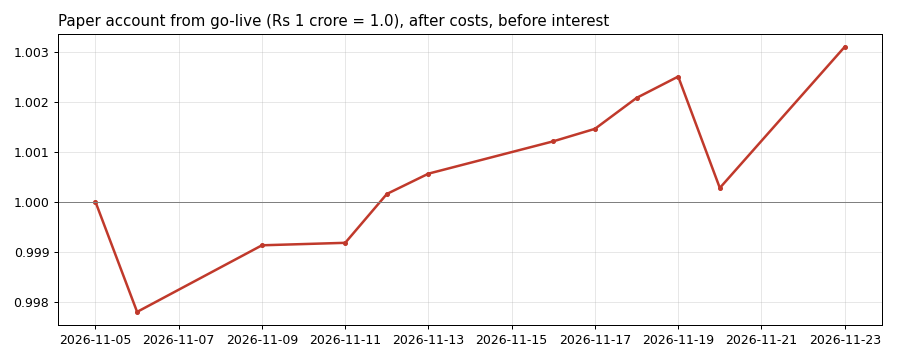
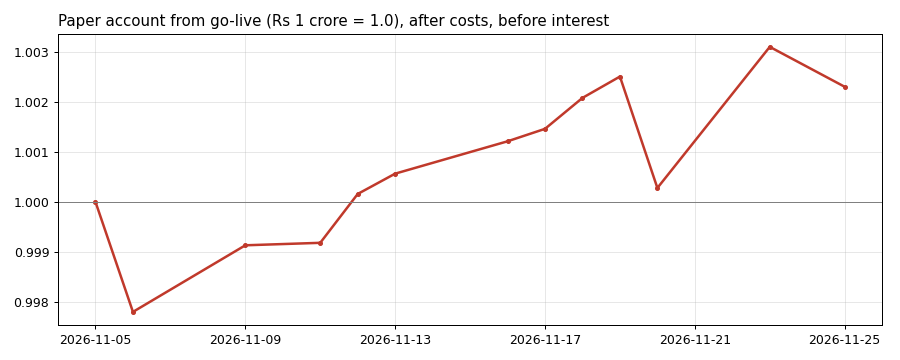
records 2026-11-25

diff --git a/README.md b/README.md
@@ -19,7 +19,7 @@ costs, and fills capped by each option's traded volume.
 <!-- live:start -->
 | Live since | Days valued | Account (paper, Rs) | Return since go-live | Last result | Latest fingerprint |
 |---|---|---|---|---|---|
-| 05 Nov 2026 | 11 | 10,030,942 | +0.31% | +0.28% (2026-11-20 book, valued 2026-11-23) | `df657bb74682...` decided 2026-11-23 at 15:14:58 IST |
+| 05 Nov 2026 | 12 | 10,022,975 | +0.23% | -0.08% (2026-11-23 book, valued 2026-11-25) | `600ba781334f...` decided 2026-11-25 at 15:14:22 IST |
 
 *Updated automatically by each day's run. Failed days: 0. Every row: [records/daily.csv](records/daily.csv).*
 <!-- live:end -->
